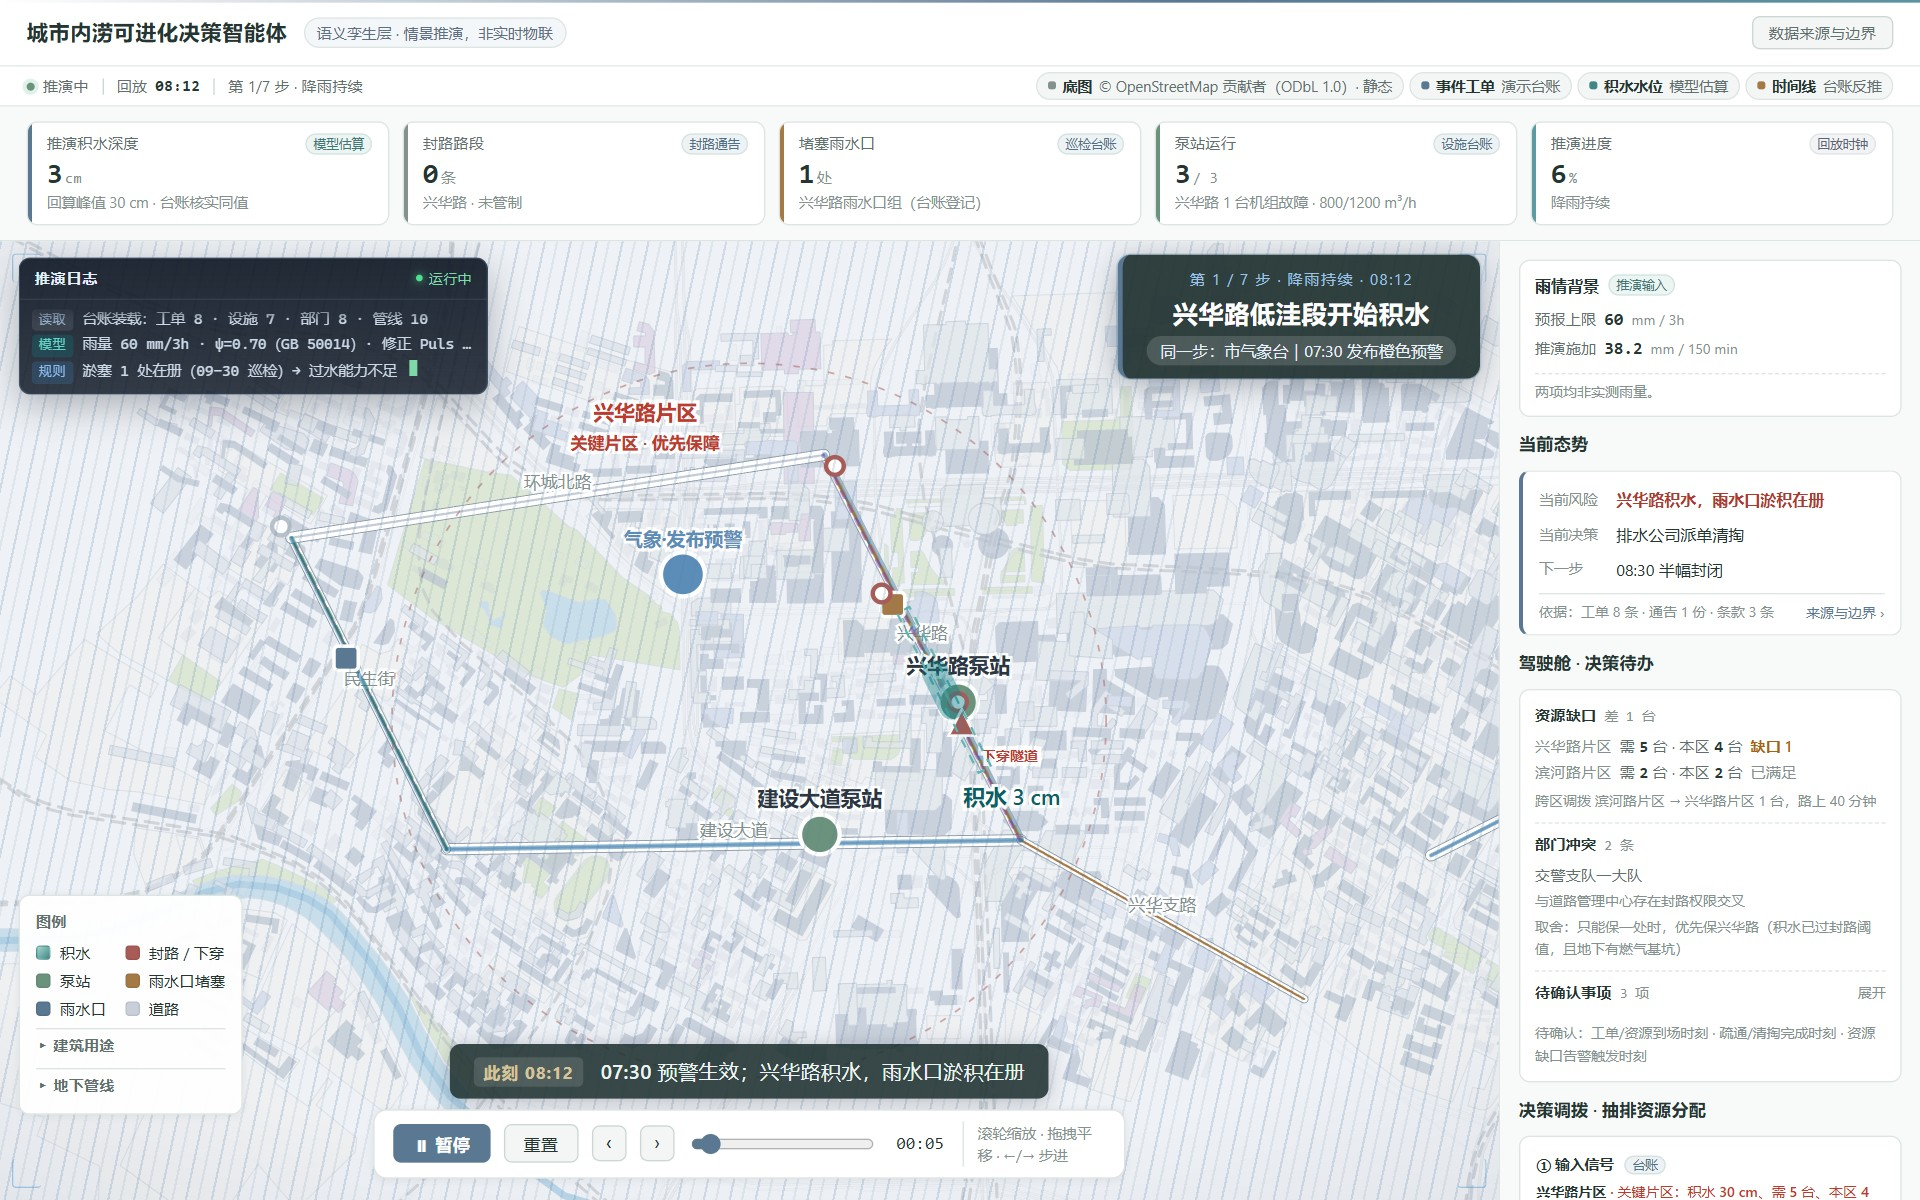
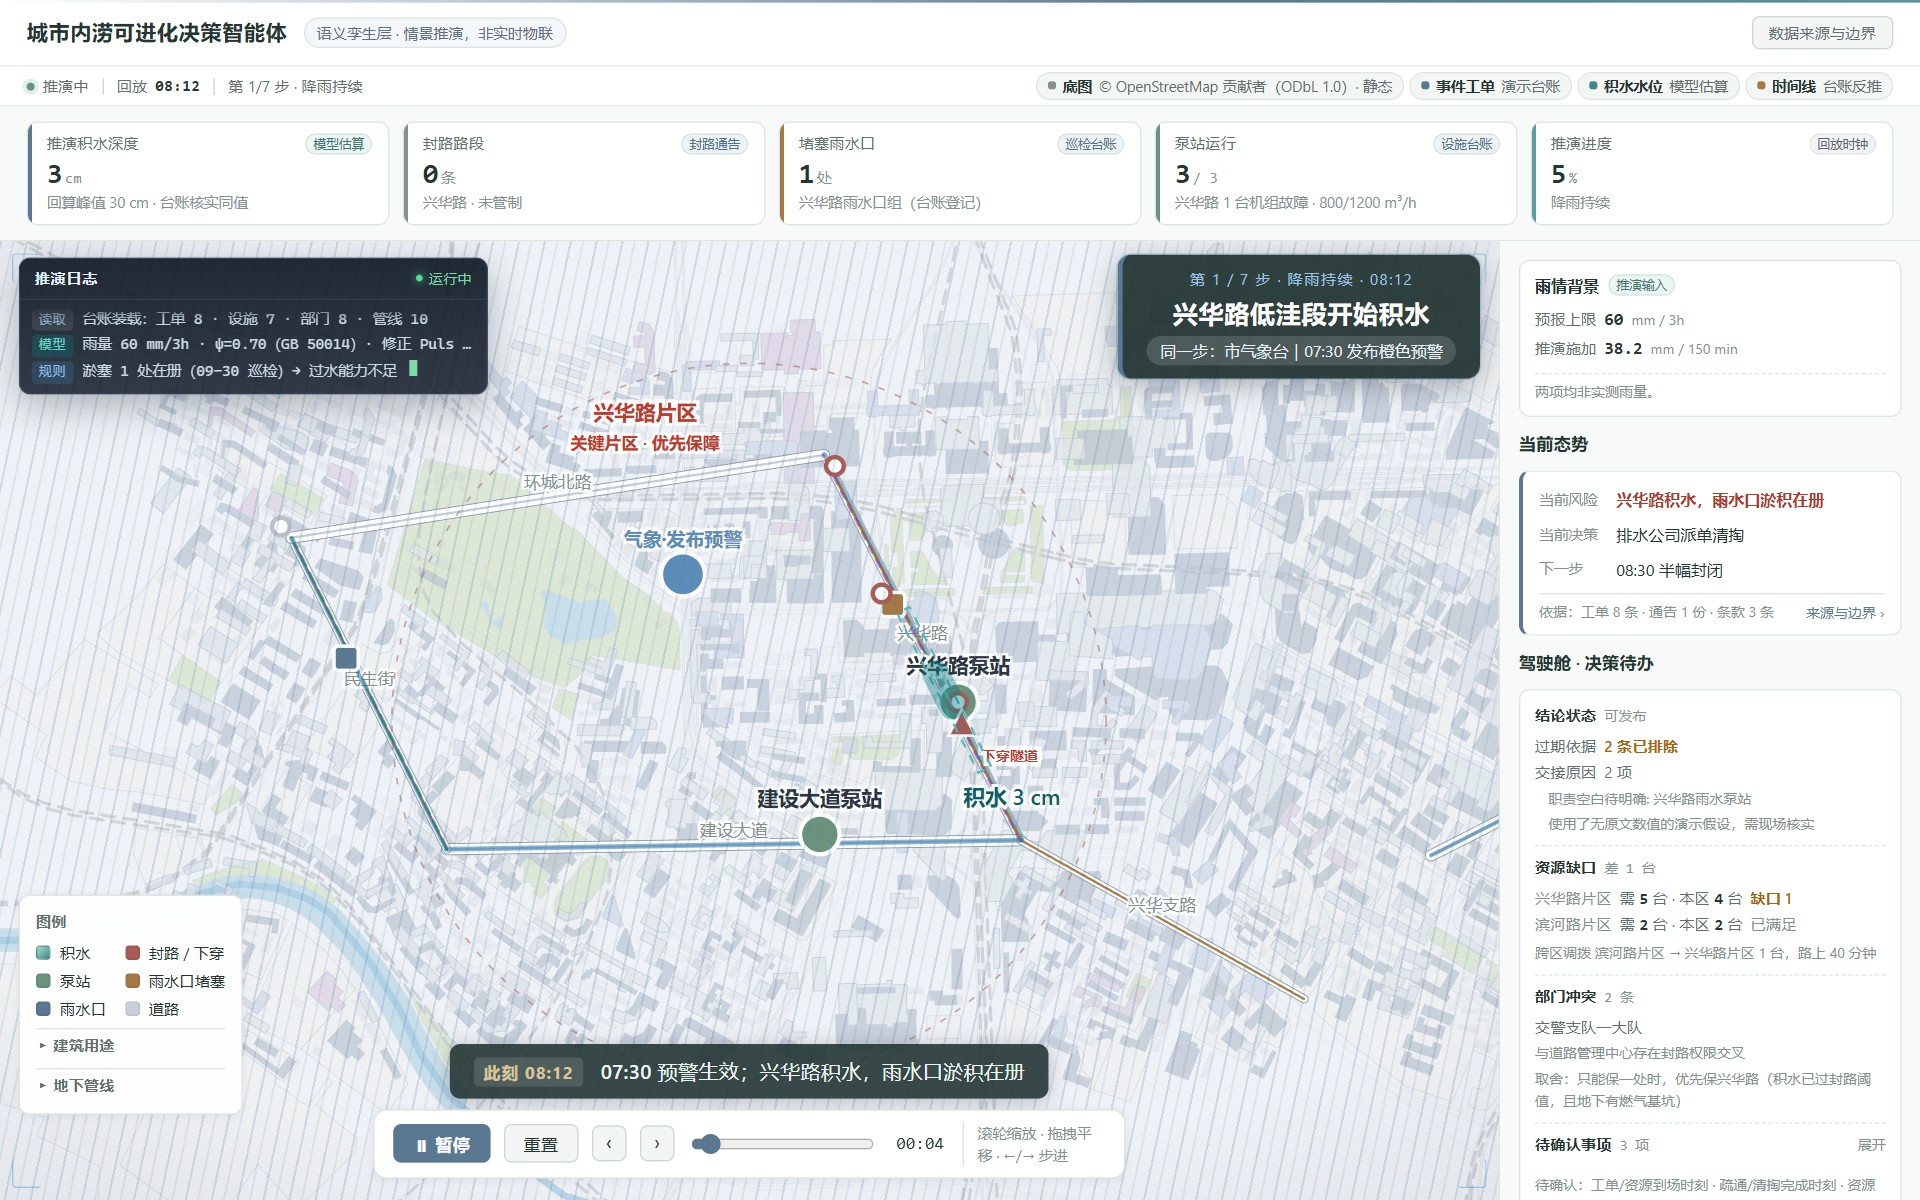
feat(map2d): show conclusion status and expired evidence
驾驶舱首节补「结论状态」：可发布与否、交接原因逐条、同片区被时态层
排除的过期依据条数。这三项后端一直有（publishable / handoff_reasons /
facts.expired_evidence），只是页面上看不到，评委要判断「什么时候不给
结论」得翻报告。

数据由 SkillPipeline 跑同一事件取得，不在生成脚本里另算——页面上的
「可发布」必须与 /api/demo 是同一个值。交接原因里的设施编号在前端
换成名字，DF-PS-01 读作兴华路雨水泵站。

命令行直接跑脚本时找不到 decision_poc 则整节不显示，不影响出图。

Changed region(s): [[0.7812, 0.5858, 1.0, 1.0]]

diff --git a/scripts/build_map2d.py b/scripts/build_map2d.py
@@ -140,6 +140,39 @@ def _agent_log(payload: dict) -> list[list[dict]]:
     return log
 
 
+def _conclusion() -> dict | None:
+    """结论状态：可发布与否、交接原因、同片区过期依据条数。
+
+    数据只从五个技能跑一遍拿，不在脚本里另算——页面上「可发布」和
+    `/api/demo` 的 `publishable` 必须是同一个值，否则两处迟早对不上。
+    脚本按路径加载（不经包导入），命令行直接跑时可能找不到 `decision_poc`，
+    这时返回 None，页面少一节，不影响出图。
+    """
+    try:
+        from decision_poc.skills import SkillPipeline, SkillRuntime
+        # 事件与时点从 Demo 层取，不在这里另写一份，否则页面和 /api/demo 会各说各的
+        from decision_poc.web_demo import AS_OF, EVENT_ID
+    except ImportError:
+        return None
+    try:
+        report = SkillPipeline(SkillRuntime()).run(
+            EVENT_ID, AS_OF, caller_labels=["ORG-EMERG"], persist=False,
+        )
+    except Exception as exc:  # noqa: BLE001 - 状态不是必需件，失败要能继续出图
+        print(f"  [conclusion] 推演失败，页面不显示结论状态：{type(exc).__name__}: {exc}",
+              file=sys.stderr)
+        return None
+    facts = report.facts
+    return {
+        "publishable": bool(report.publishable),
+        "status": report.status,
+        "stop_reason": report.stop_reason,
+        "handoff_required": bool(report.handoff_required),
+        "handoff_reasons": list(report.handoff_reasons),
+        "expired_evidence": int(getattr(facts, "expired_evidence", 0) or 0) if facts else 0,
+    }
+
+
 def build_payload() -> dict:
     d = load_layout()
     districts = [
@@ -518,6 +551,7 @@ def build_payload() -> dict:
         "timeline": timeline,
     }
     payload["agent_log"] = _agent_log(payload)
+    payload["conclusion"] = _conclusion()
     return payload
 
 
@@ -3169,6 +3203,34 @@ function renderEventline(t){
   const dn = D.district_names || {};
   const dname = id => dn[id] || id;
   const secs = [];
+
+  // ⓪ 结论状态：可发布与否、需人工复核的原因、同片区过期依据条数。
+  // 「过期依据」不是页面自己判的——它是推演时被时态层排除的旧预警条数。
+  // 写在这里是为了让「把旧预警当现行预警」这件事在页面上看得见，而不是只留在报告里。
+  // 编号换成名字：交接原因是给指挥者看的，"DF-PS-01" 得先查台账才知道是哪座泵站。
+  const cc = D.conclusion;
+  if(cc){
+    const facName = id => {
+      const hit = (D.facilities || []).find(f=>f.id === id);
+      return hit ? hit.name : id;
+    };
+    const ccOk = !!cc.publishable;
+    const ccReasons = (cc.handoff_reasons || []).map(r=>String(r).replace(/[A-Z]{2,}-[A-Z0-9-]+/g, m=>facName(m)));
+    const ccExp = Number(cc.expired_evidence) || 0;
+    let ccLines = '';
+    if(ccExp){
+      ccLines += `<div class=ck-row title="同片区在此时点已失效的气象依据，已从推演中排除，不参与定级">`
+        + `<span>过期依据</span><span class=ck-gap>${ccExp} 条已排除</span></div>`;
+    }
+    if(ccReasons.length){
+      ccLines += `<div class=ck-row><span>交接原因</span><span>${ccReasons.length} 项</span></div>`;
+      ccLines += ccReasons.map(r=>`<div class=ck-sub style="padding-left:10px">${esc(r)}</div>`).join('');
+    }
+    if(cc.stop_reason) ccLines += `<div class=ck-sub>${esc(cc.stop_reason)}</div>`;
+    secs.push(`<div class=ck-sec><div class=ck-h>结论状态`
+      + `<span class="n${ccOk ? '' : ' ck-gap'}">${ccOk ? '可发布' : '需人工复核'}</span></div>`
+      + ccLines + `</div>`);
+  }
 
   // ① 资源缺口
   const sig = dec.signals || {};
